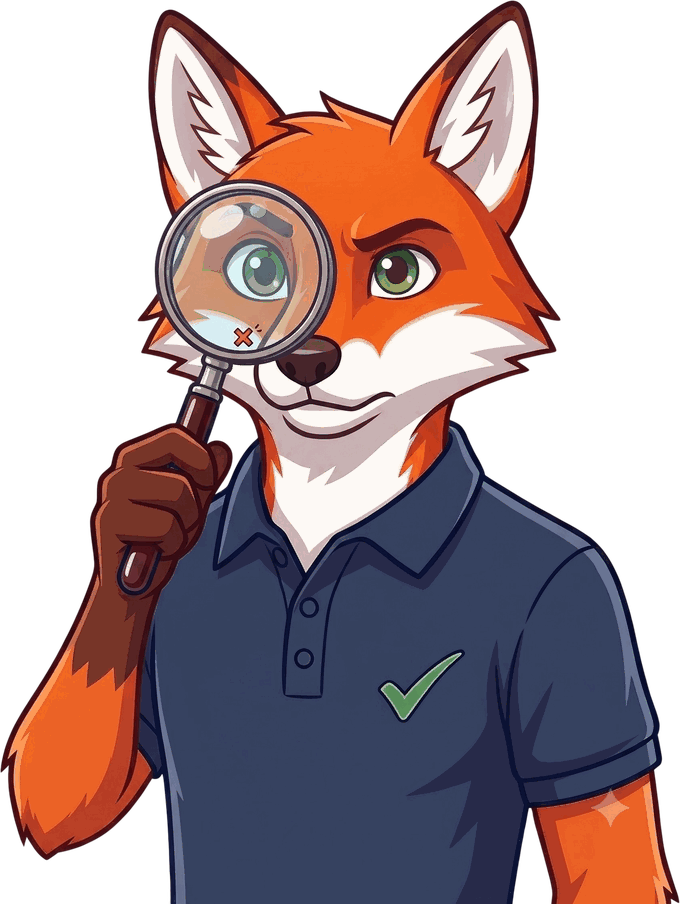
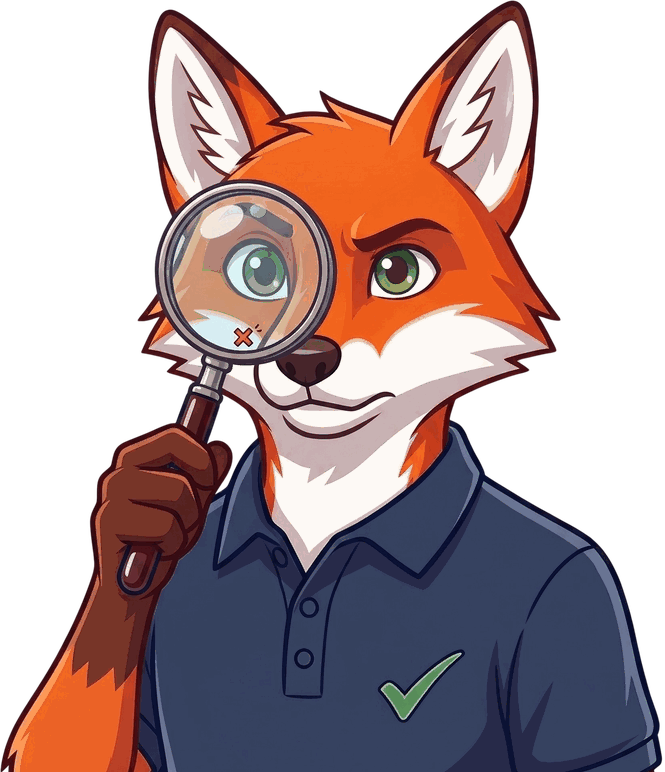
fix(lp): Maskottchen-Nacharbeit — Gemini-Wasserzeichen weg, Fuechse sichtbar + textfrei
Owner-Feedback + unabhaengige Agenten-Abnahme (FREIGABE):
- Gemini-Wasserzeichen (4-Punkt-Sparkle auf dem Hero-Fuchs-Arm) entfernt:
  mascot-magnify.png sauber unten zugeschnitten (680x904 -> 665x772). Die anderen
  beiden Maskottchen-PNGs sind wasserzeichenfrei (verifiziert).
- Hero-Fuchs: war fast komplett hinter der Report-Karte verdeckt -> jetzt klar
  sichtbare Vordergrund-Figur (z-20), die den Report praesentiert; feste Bildmasse.
  Fix-Plan-Demozeile via pr-14 nach links -> kein Glyph verdeckt (Desktop+Mobile).
- Footer-Fuchs (Lupe) aus der "verlorenen" Footer-Ecke entfernt -> als kleine,
  vollstaendig sichtbare Guide-Figur in die "Wie es funktioniert"-Sektion verschoben.
- CtaSection-Thumbsup-Fuchs: Desktop unveraendert (perfekt); mobil verkleinert
  (w-28) + nach rechts, sodass Dringlichkeits-Pille + CTA-Buttons frei sind.

Verifikation: next build gruen (21 Seiten), tsc gruen, legal-copy-grep = Baseline
(keine Copy-Aenderung). Unabhaengiger Abnahme-Agent (Evidence Collector): Desktop +
Mobile, Light + Dark, getBoundingClientRect-Overlap-Messungen -> 0 lesbarer Text /
echte Buttons verdeckt, kein Wasserzeichen, Footer sauber -> FREIGABE.

diff --git a/landingpage-next/components/HowItWorks.tsx b/landingpage-next/components/HowItWorks.tsx
@@ -1,6 +1,7 @@
 "use client";
 
 import * as motion from "motion/react-client";
+import Image from "next/image";
 import { CheckCircle2Icon, GlobeIcon, ScanLineIcon } from "lucide-react";
 
 import { HOW_IT_WORKS } from "@/lib/config";
@@ -30,7 +31,19 @@ export function HowItWorks() {
         aria-hidden
         className="absolute inset-0 -z-10 hidden dot-bg-dark opacity-50 mask-radial dark:block"
       />
-      <div className="mx-auto max-w-6xl px-5 py-20 sm:px-6 sm:py-24">
+      {/* Lupen-Fuchs als sichtbarer Guide (dekorativ, aria-hidden). Steht unten
+          rechts neben den drei Schritten; overflow-hidden der Section clippt
+          sauber. Aus dem Footer hierher verschoben. */}
+      <Image
+        src="/mascot-full.png"
+        alt=""
+        aria-hidden
+        width={680}
+        height={1329}
+        loading="lazy"
+        className="pointer-events-none absolute -bottom-3 -right-2 z-20 hidden h-auto w-20 opacity-95 drop-shadow-[0_18px_30px_rgba(0,0,0,0.4)] sm:block sm:right-1 lg:w-24"
+      />
+      <div className="relative z-10 mx-auto max-w-6xl px-5 py-20 sm:px-6 sm:py-24">
         <div className="mx-auto flex max-w-2xl flex-col items-center text-center">
           <SectionKicker icon={ScanLineIcon} label="Wie es funktioniert" />
           <h2

diff --git a/landingpage-next/components/Footer.tsx b/landingpage-next/components/Footer.tsx
@@ -78,18 +78,8 @@ export function Footer() {
 
   return (
     <footer className="relative overflow-hidden border-t border-border/60 bg-brand-deeper">
-      {/* Riesiges, sehr blasses Hintergrund-Maskottchen (Ganzkörper Lupe) in der
-          unteren Ecke. Dekorativ → aria-hidden, pointer-events-none, liegt HINTER
-          dem Inhalt (z-0). */}
-      <Image
-        src="/mascot-full.png"
-        alt=""
-        aria-hidden
-        width={680}
-        height={1329}
-        loading="lazy"
-        className="pointer-events-none absolute -bottom-6 -left-4 z-0 h-auto w-48 opacity-[0.28] sm:-left-6 sm:w-64 sm:opacity-[0.3] dark:opacity-[0.36]"
-      />
+      {/* Maskottchen wurde aus dem Footer in die "Wie es funktioniert"-Sektion
+          verschoben (dort besser platziert statt am aeussersten Rand verloren). */}
       <div
         aria-hidden
         className="absolute inset-x-0 top-0 -z-10 h-32 bg-gradient-to-b from-brand-orange/5 to-transparent"

diff --git a/landingpage-next/components/Hero.tsx b/landingpage-next/components/Hero.tsx
@@ -229,16 +229,16 @@ export function Hero() {
               overflow-hidden → kein horizontaler Overflow auf Mobile. */}
           <div
             aria-hidden
-            className="pointer-events-none absolute -bottom-10 -right-2 -z-10 sm:-right-6 lg:-right-10"
+            className="pointer-events-none absolute -bottom-14 -right-10 z-20 sm:-right-8 lg:-right-14"
           >
             <Image
               src="/mascot-magnify.png"
               alt=""
-              width={680}
-              height={904}
+              width={665}
+              height={772}
               priority
-              sizes="300px"
-              className="h-auto w-[200px] opacity-95 drop-shadow-[0_24px_40px_rgba(0,0,0,0.5)] animate-float-slow sm:w-[250px] lg:w-[290px]"
+              sizes="180px"
+              className="h-auto w-[116px] opacity-100 drop-shadow-[0_16px_28px_rgba(0,0,0,0.45)] animate-float-slow sm:w-[138px] lg:w-[158px]"
             />
           </div>
           <HeroVisual />

diff --git a/landingpage-next/components/CtaSection.tsx b/landingpage-next/components/CtaSection.tsx
@@ -122,7 +122,7 @@ export function CtaSection() {
               pointer-events-none, liegt HINTER dem Text (z-0). */}
           <div
             aria-hidden
-            className="pointer-events-none absolute -right-6 bottom-0 z-0 flex items-end sm:-right-2 lg:right-6"
+            className="pointer-events-none absolute -right-9 bottom-0 z-0 flex items-end sm:-right-2 lg:right-6"
           >
             <Image
               src="/mascot-thumbsup.png"
@@ -130,7 +130,7 @@ export function CtaSection() {
               width={680}
               height={1235}
               loading="lazy"
-              className="h-auto w-40 opacity-90 mask-fade-b animate-float-slow drop-shadow-[0_24px_40px_rgba(0,0,0,0.5)] sm:w-56 lg:w-72"
+              className="h-auto w-28 opacity-90 mask-fade-b animate-float-slow drop-shadow-[0_24px_40px_rgba(0,0,0,0.5)] sm:w-56 lg:w-72"
             />
           </div>
         </motion.div>

diff --git a/landingpage-next/components/HeroVisual.tsx b/landingpage-next/components/HeroVisual.tsx
@@ -167,7 +167,7 @@ export function HeroVisual() {
 
           {/* Fix-Plan-Teaser — dekorativ (Teil des aria-hidden Visuals). Marken-
               Orange-getönte Kante/Fläche statt mint. */}
-          <p className="pointer-events-none rounded-xl border border-brand-orange/30 bg-gradient-to-r from-brand-orange/10 to-brand-amber/8 px-4 py-3 text-center text-[13px] font-medium text-muted-foreground">
+          <p className="pointer-events-none rounded-xl border border-brand-orange/30 bg-gradient-to-r from-brand-orange/10 to-brand-amber/8 py-3 pl-4 pr-14 text-center text-[13px] font-medium text-muted-foreground">
             + priorisierter Fix-Plan &amp; Entwurf der Barrierefreiheitserklärung
           </p>
         </div>